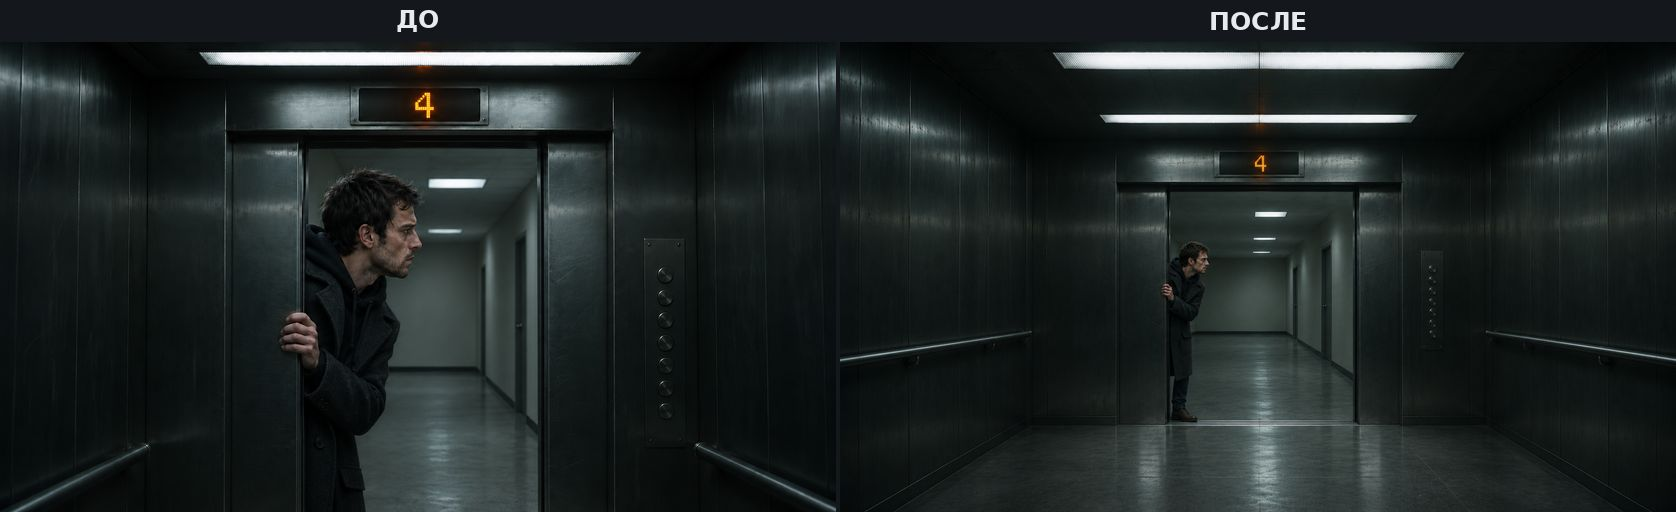
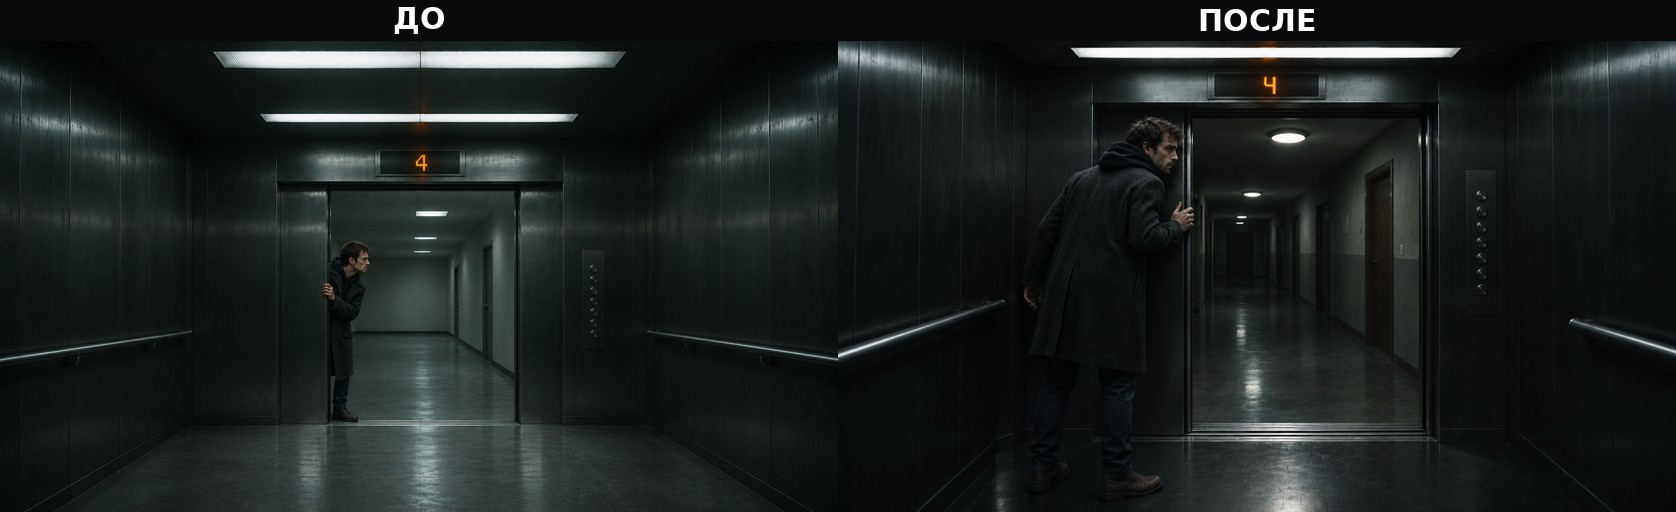
Elevator b41 redo v3: hero inside the cabin looking out (Alfa rejected v2 perspective)

diff --git a/elevator-fixes2.html b/elevator-fixes2.html
@@ -1,4 +1,4 @@
-<!doctype html><html lang="ru"><head><meta charset="utf-8"><meta name="viewport" content="width=device-width,initial-scale=1"><title>The Elevator Game — бит 41 переделан: ДО | ПОСЛЕ</title><style>body{background:#0d0f12;color:#e8e8e8;font-family:-apple-system,'Segoe UI',Roboto,sans-serif;margin:0;padding:0 14px 40px}
+<!doctype html><html lang="ru"><head><meta charset="utf-8"><meta name="viewport" content="width=device-width,initial-scale=1"><title>The Elevator Game — бит 41, переделка №2: ДО | ПОСЛЕ</title><style>body{background:#0d0f12;color:#e8e8e8;font-family:-apple-system,'Segoe UI',Roboto,sans-serif;margin:0;padding:0 14px 40px}
 .bar{position:sticky;top:0;background:#11141a;z-index:50;padding:12px 6px;border-bottom:1px solid #2a2f38;display:flex;gap:10px;align-items:center;flex-wrap:wrap}
 .bar b{font-size:17px}.bar button{background:#2b6cb0;color:#fff;border:0;border-radius:8px;padding:9px 14px;font-size:15px;cursor:pointer}
 .bar button.grey{background:#3a4150}.cnt{color:#f0a832;font-weight:700}
@@ -23,10 +23,10 @@ textarea.has{border-color:#f0a832}
 .lbhint{color:#9aa3ad;font-size:13px;margin-top:8px}
 @media (max-width:560px){.grid{grid-template-columns:1fr}body{padding:0 8px 32px}.bar b{font-size:16px}textarea{font-size:16px;min-height:64px}}
 </style></head><body>
-<div class="bar"><b>The Elevator Game — бит 41 переделан: ДО | ПОСЛЕ</b><button onclick="copyAll()">📋 Скопировать все комменты</button><button class="grey" onclick="backupCopy()">💾 Резервная копия</button><div style="flex-basis:100%;font-size:12px;opacity:.85">⚠ Комментарии живут в этом браузере: не открывай страницу в другом приложении и жми копию/резерв до обновления</div><button class="grey" onclick="clr()">Очистить</button><span><span class="cnt" id="cnt">0</span> коммент.</span> <span>Утверждено на оживление: <span class="apprcnt" id="apprcnt">0</span> из 1</span></div>
-<p class="sub" style="margin-top:12px">Карточка — переделанный бит 41: слева кадр <b>ДО</b>, справа — <b>ПОСЛЕ</b> полной переделки (кабина лифта крупнее и просторнее, табло «4» — по сцене бита). Клик по картинке — зум на весь экран. Комментарии сохраняются в браузере; кнопка выше собирает их одним списком.</p><p class="sub" style="margin-top:10px">ℹ <b>Бит 59 переделки не требует:</b> фигура в конце коридора — по сценарию. Бит 58: «В дальнем конце, под последней лампой, стоит нечто ростом ровно с человека»; бит 59: «Оно не двигается, пока двери открыты. Оно ждёт двери. Не тебя». Это неподвижный силуэт без черт — не персонаж и не ошибка генерации, кадр не трогали.</p>
+<div class="bar"><b>The Elevator Game — бит 41, переделка №2: ДО | ПОСЛЕ</b><button onclick="copyAll()">📋 Скопировать все комменты</button><button class="grey" onclick="backupCopy()">💾 Резервная копия</button><div style="flex-basis:100%;font-size:12px;opacity:.85">⚠ Комментарии живут в этом браузере: не открывай страницу в другом приложении и жми копию/резерв до обновления</div><button class="grey" onclick="clr()">Очистить</button><span><span class="cnt" id="cnt">0</span> коммент.</span> <span>Утверждено на оживление: <span class="apprcnt" id="apprcnt">0</span> из 1</span></div>
+<p class="sub" style="margin-top:12px">Карточка — бит 41 после ВТОРОЙ полной переделки: слева — <b>ДО</b>, забракованная версия (герой читался так, будто он смотрит снаружи лифта), справа — <b>ПОСЛЕ</b>: герой ВНУТРИ просторной кабины и смотрит НАРУЖУ, в коридор через открытые двери (табло «4» — по сцене бита). Клик по картинке — зум на весь экран. Комментарии сохраняются в браузере; кнопка выше собирает их одним списком.</p><p class="sub" style="margin-top:10px">ℹ <b>Бит 59 переделки не требует:</b> фигура в конце коридора — по сценарию. Бит 58: «В дальнем конце, под последней лампой, стоит нечто ростом ровно с человека»; бит 59: «Оно не двигается, пока двери открыты. Оно ждёт двери. Не тебя». Это неподвижный силуэт без черт — не персонаж и не ошибка генерации, кадр не трогали.</p>
 <div class="grid">
-<div class="card"><div class="chead">Бит 41 — ПОЛНАЯ переделка: лифт крупнее и просторнее, табло → 4</div><img src="posters/elevator-fixes2/beat_041.jpg" loading="lazy" onclick="zoom(this.src,'elevator_fixes2_b41')"><div class="txt">🎙 It looks ordinary. That is the test. The first floor always looks ordinary.</div><div class="ru">Выглядит обычно. В этом и испытание. Первый этаж всегда выглядит обычным.</div><textarea data-k="elevator_fixes2_b41" placeholder="Комментарий…" oninput="save(this)"></textarea></div>
+<div class="card"><div class="chead">Бит 41 — переделка №2: герой внутри кабины, смотрит наружу в коридор, табло → 4</div><img src="posters/elevator-fixes2/beat_041.jpg" loading="lazy" onclick="zoom(this.src,'elevator_fixes2_b41')"><div class="txt">🎙 It looks ordinary. That is the test. The first floor always looks ordinary.</div><div class="ru">Выглядит обычно. В этом и испытание. Первый этаж всегда выглядит обычным.</div><textarea data-k="elevator_fixes2_b41" placeholder="Комментарий…" oninput="save(this)"></textarea></div>
 </div>
 <div id="lb" onclick="if(event.target===this)closeLb()"><img id="lbimg"><textarea id="lbta" placeholder="Комментарий…" oninput="lbSave(this)"></textarea><div class="lbhint">Esc или клик мимо картинки — закрыть</div></div>
 <script>function save(el){localStorage.setItem('short_'+el.dataset.k,el.value);el.classList.toggle('has',!!el.value.trim());syncHas();count();}
